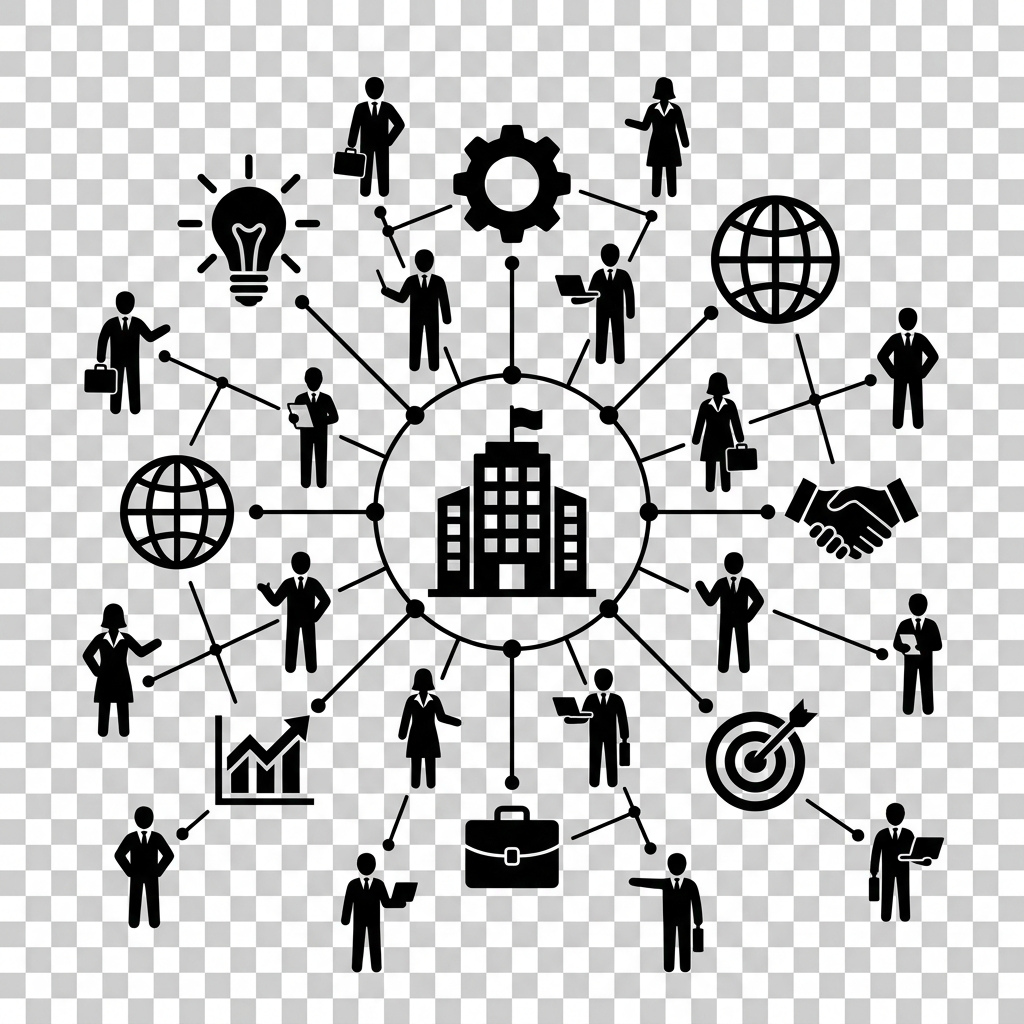
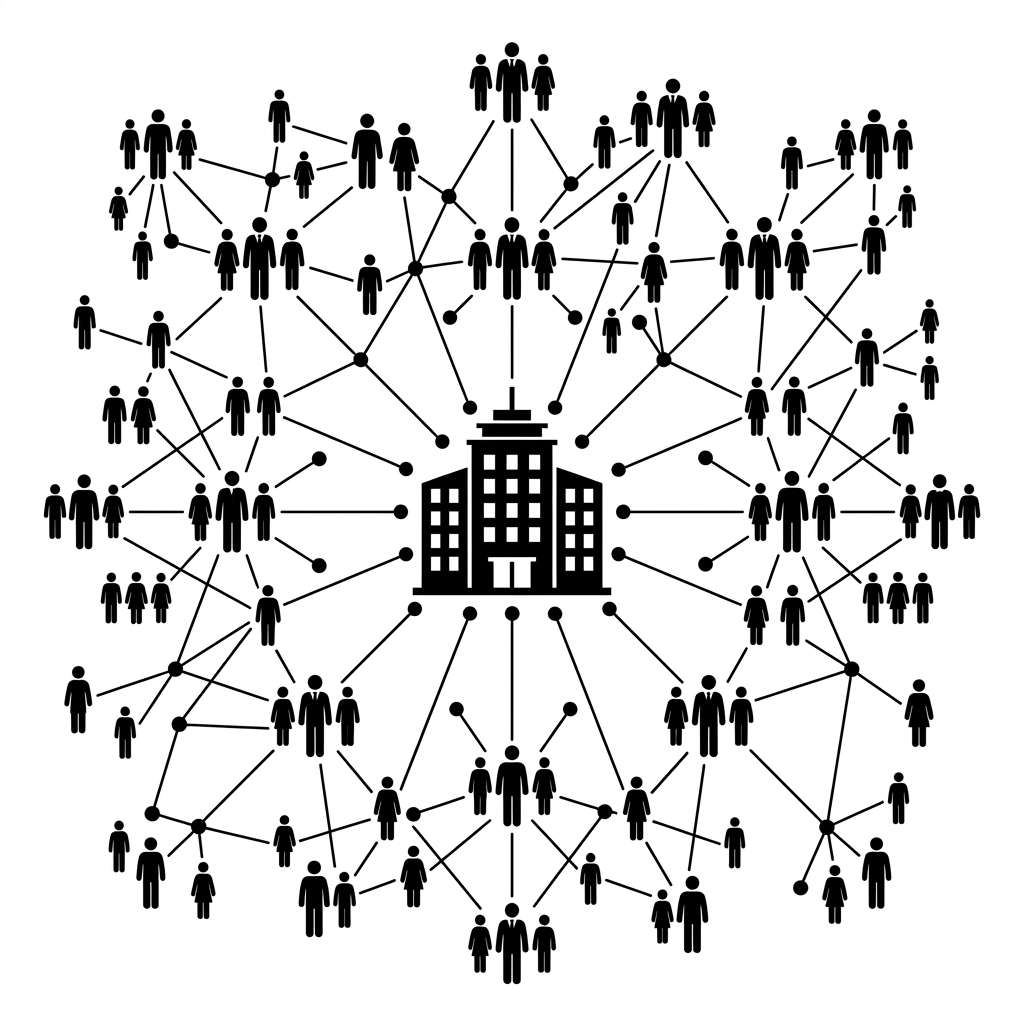
fsd

diff --git a/style.css b/style.css
@@ -478,14 +478,13 @@ header.hero-split {
     top: 50%;
     left: 55%;
     transform: translate(-50%, -50%);
-    width: 70%;
-    height: 70%;
+    width: 80%;
+    height: 80%;
     object-fit: contain;
-    opacity: 0.12;
+    opacity: 0.22;
     z-index: 3;
     pointer-events: none;
-    mix-blend-mode: overlay;
-    filter: brightness(0) invert(0); /* Black silhouette */
+    mix-blend-mode: multiply;
 }
 
 header h1 {